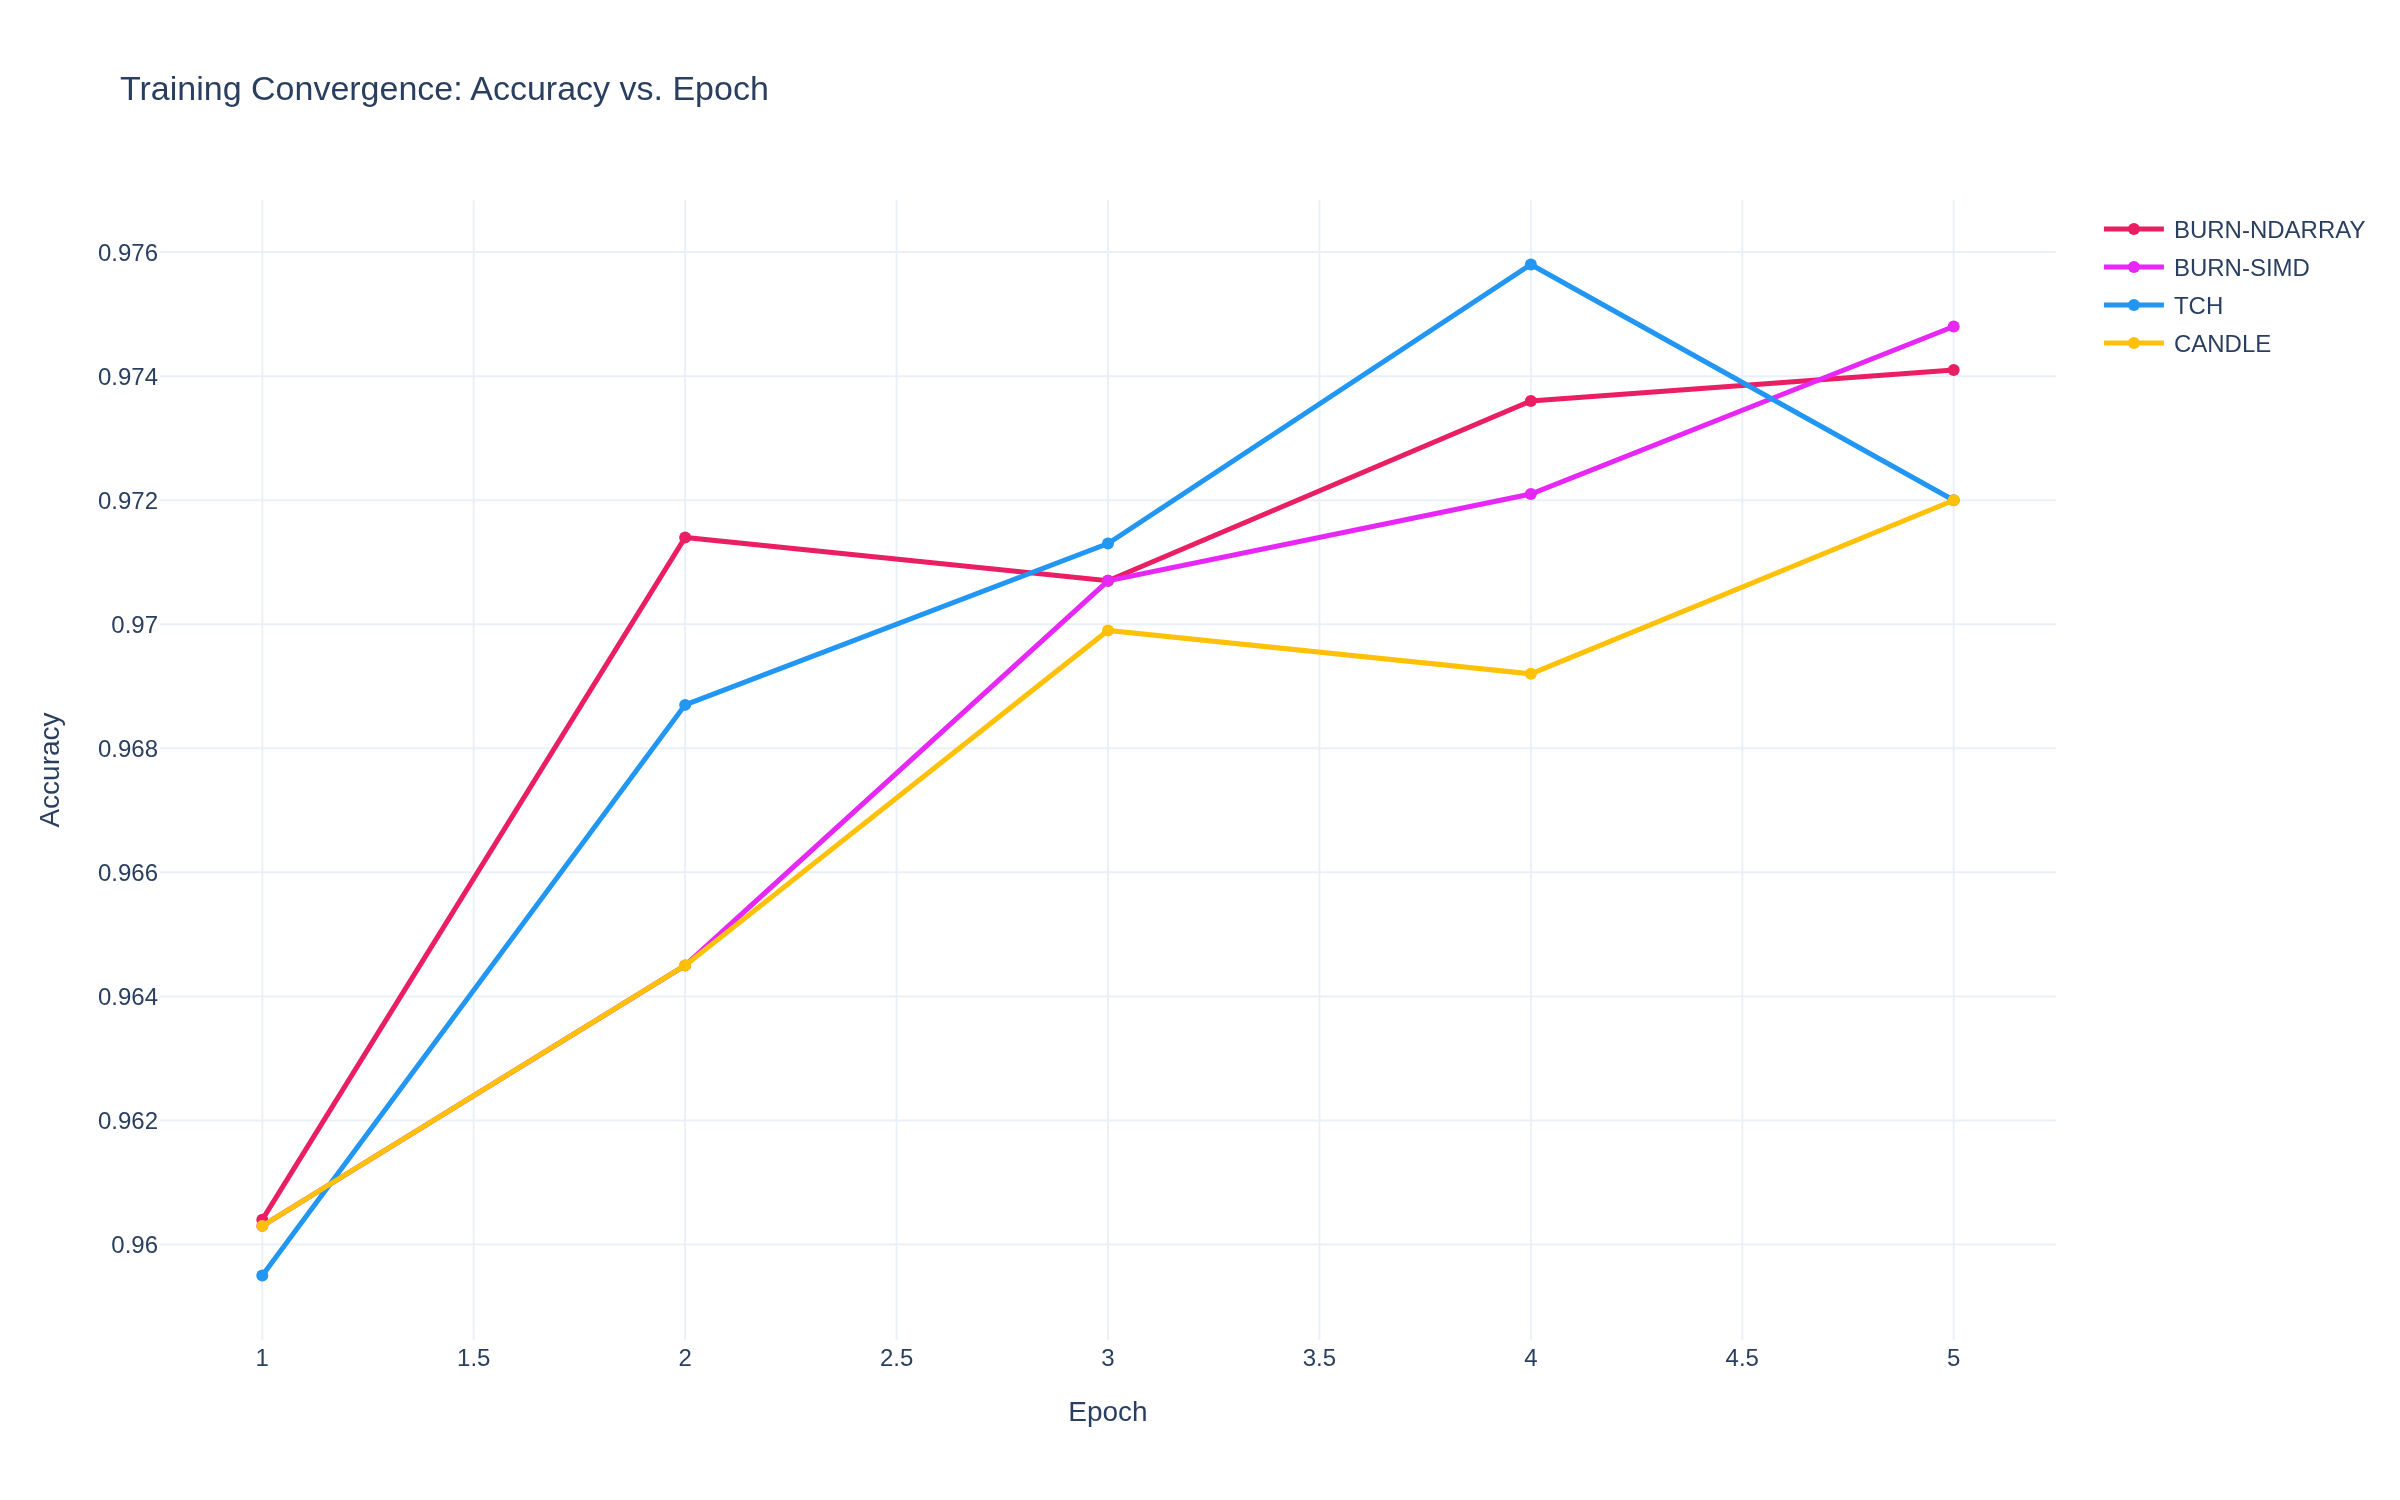
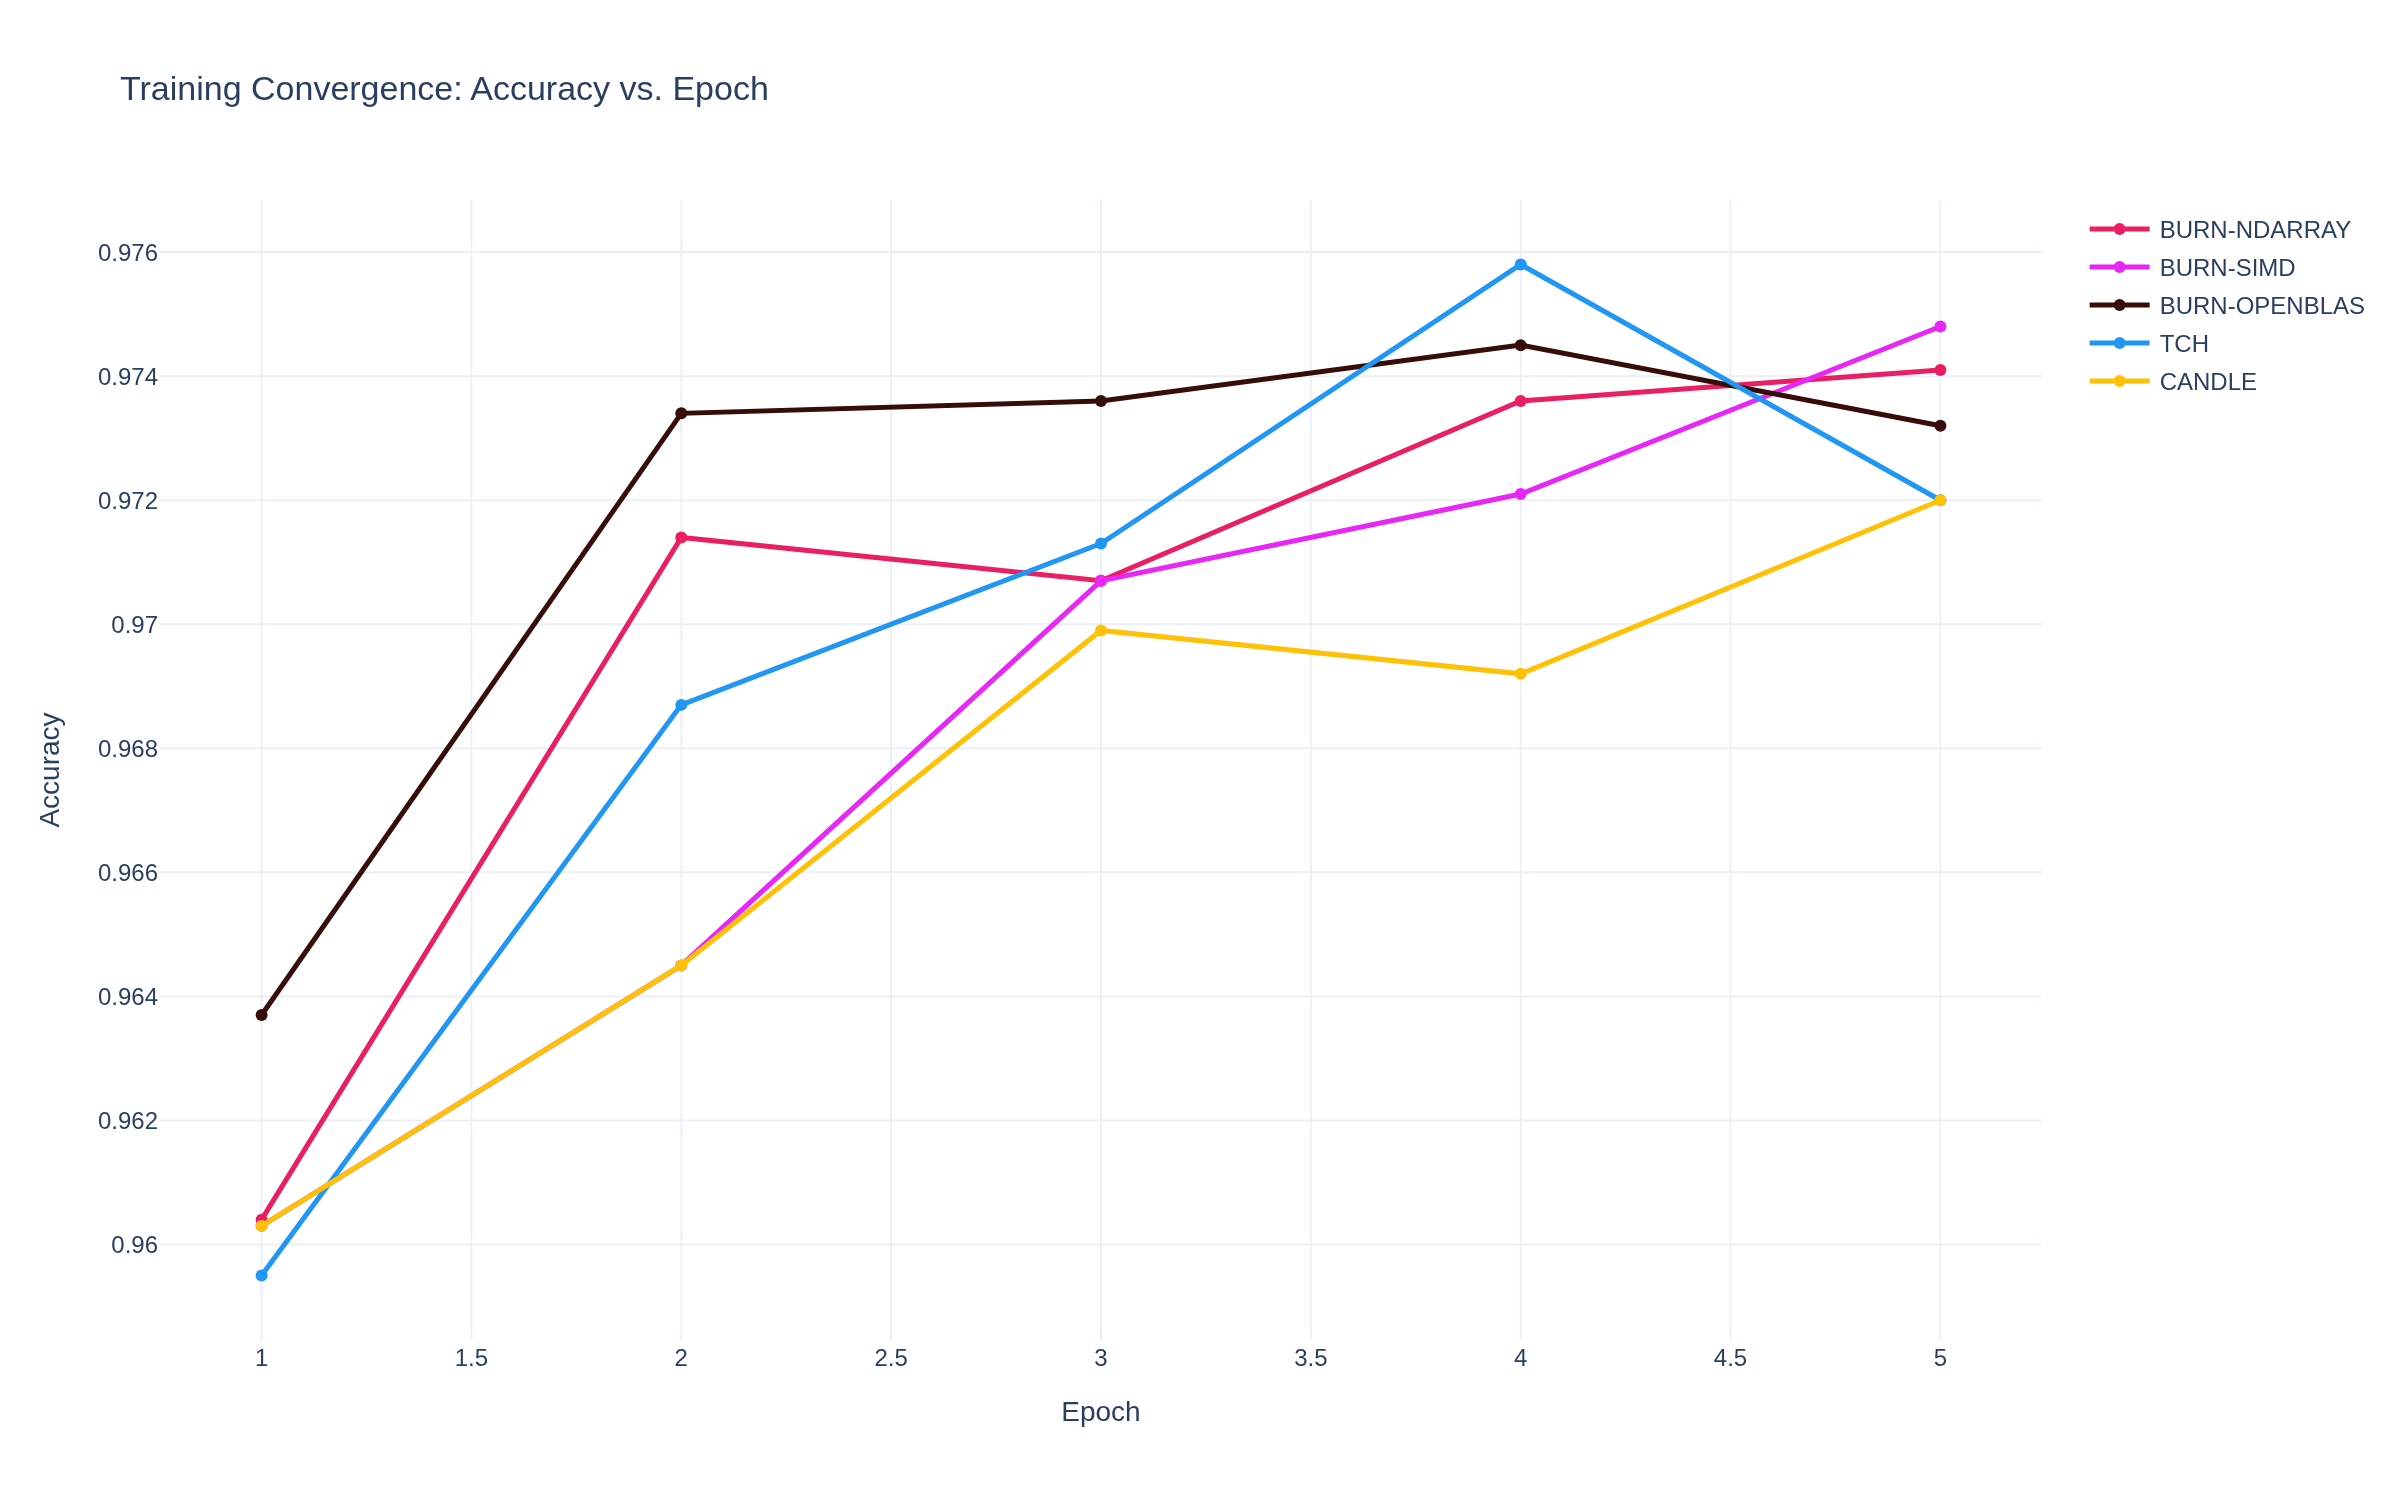
fix: include openblas to visualizations

diff --git a/visualize_results.py b/visualize_results.py
@@ -18,10 +18,11 @@ from plotly.subplots import make_subplots
 
 RESULT_DIR = Path("results")
 OUTPUT_DIR = Path("visualizations")
-FRAMEWORKS = ["burn-ndarray", "burn-simd", "tch", "candle"]
+FRAMEWORKS = ["burn-ndarray", "burn-simd", "burn-openblas", "tch", "candle"]
 FRAMEWORK_COLORS = {
     "burn-ndarray": "#E91E63",
     "burn-simd": "#E727F5",
+    "burn-openblas": "#360D09",
     "tch": "#2196F3",
     "candle": "#FFC107",
 }
